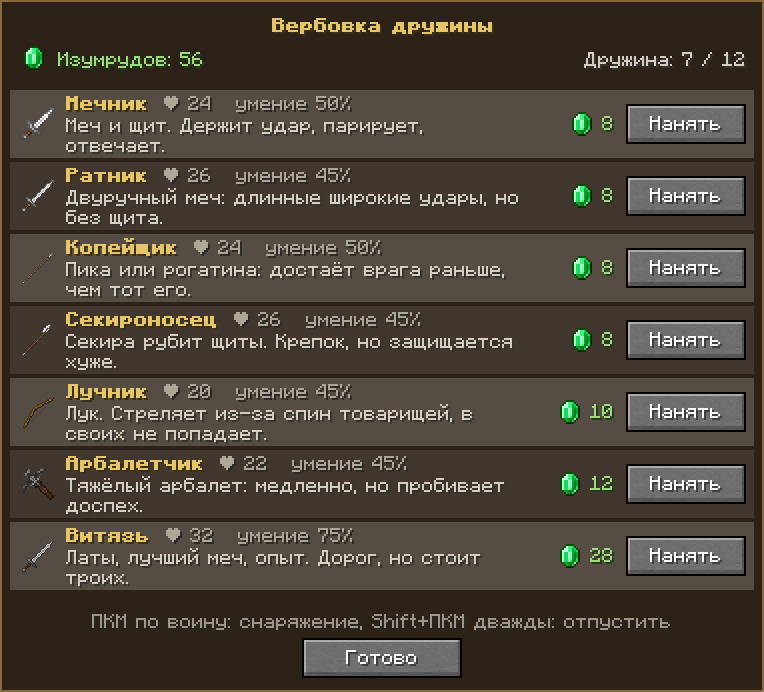
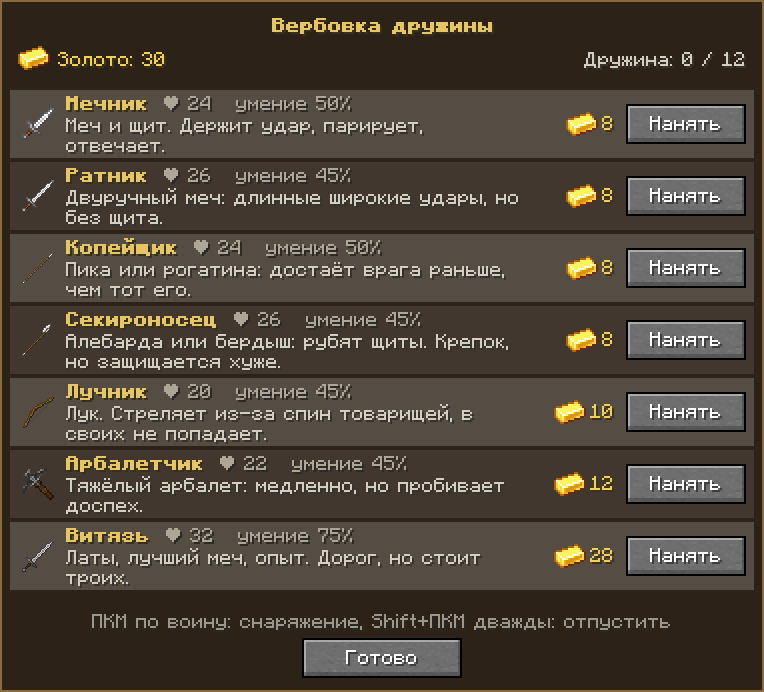
Druzhina 1.2.0: soldiers are hired for gold
- the muster table takes gold ingots instead of emeralds (Minecraft's or
  any mod's that count as gold ingots), at the same prices: 8 for a
  swordsman, a warrior, a spearman or an axeman, 10 for an archer, 12 for
  a crossbowman, 28 for a knight
- the muster screen shows the gold in the purse and the prices in gold
- bandits carry gold ingots instead of emeralds
- README and its screenshot of the muster screen; Prestol builds against
  Druzhina 1.2.0 (its own hiring of mercenaries was already for gold)

Claude-Session: https://claude.ai/code/session_01PiMY2ipzwAcxeXnAaZYcyK

diff --git a/druzhina/src/main/java/io/github/nicksementsov/druzhina/client/MusterScreen.java b/druzhina/src/main/java/io/github/nicksementsov/druzhina/client/MusterScreen.java
@@ -26,6 +26,8 @@ public class MusterScreen extends Screen {
     private static final int BG = 0xE0201812;
     private static final int FRAME = 0xFF8B6B3E;
     private static final int GOLD = 0xFFE8C766;
+    /** The colour of the purse and of prices the player can pay. */
+    private static final int COIN = 0xFFF5D255;
 
     private final BlockPos table;
     private final Role[] roles = Role.forHire();
@@ -78,11 +80,11 @@ public class MusterScreen extends Screen {
         if (player == null) {
             return;
         }
-        int emeralds = Army.emeralds(player);
+        int gold = Army.gold(player);
         boolean free = player.getAbilities().instabuild;
         boolean full = this.army(player) >= DruzhinaConfig.MAX_SOLDIERS.get();
         for (int i = 0; i < this.buttons.size(); i++) {
-            this.buttons.get(i).active = !full && (free || emeralds >= Army.price(this.roles[i]));
+            this.buttons.get(i).active = !full && (free || gold >= Army.price(this.roles[i]));
         }
     }
 
@@ -111,11 +113,11 @@ public class MusterScreen extends Screen {
         g.drawCenteredString(this.font, this.title.copy().withStyle(ChatFormatting.BOLD), x + w / 2, y + 8, GOLD);
 
         Player player = Minecraft.getInstance().player;
-        int emeralds = player == null ? 0 : Army.emeralds(player);
+        int gold = player == null ? 0 : Army.gold(player);
         boolean free = player != null && player.getAbilities().instabuild;
         if (player != null) {
-            g.renderItem(new ItemStack(Items.EMERALD), x + 8, y + 20);
-            g.drawString(this.font, Component.translatable("druzhina.gui.purse", emeralds), x + 28, y + 25, 0xFF9FE07A);
+            g.renderItem(new ItemStack(Items.GOLD_INGOT), x + 8, y + 20);
+            g.drawString(this.font, Component.translatable("druzhina.gui.purse", gold), x + 28, y + 25, COIN);
             Component army = Component.translatable("druzhina.gui.army", this.army(player), DruzhinaConfig.MAX_SOLDIERS.get());
             g.drawString(this.font, army, x + w - 8 - this.font.width(army), y + 25, 0xFFD8D0C0);
         }
@@ -134,12 +136,12 @@ public class MusterScreen extends Screen {
             for (int l = 0; l < Math.min(2, lines.size()); l++) {
                 g.drawString(this.font, lines.get(l), x + 32, ry + 14 + l * 10, 0xFFD8D0C0);
             }
-            // the price, with an emerald, red when the purse is too thin
+            // the price in gold ingots, red when the purse is too thin
             int price = Army.price(role);
             String text = String.valueOf(price);
             int px = x + w - 74 - this.font.width(text);
-            g.renderItem(new ItemStack(Items.EMERALD), px - 18, ry + 9);
-            g.drawString(this.font, text, px, ry + 13, free || emeralds >= price ? 0xFF9FE07A : 0xFFE06060);
+            g.renderItem(new ItemStack(Items.GOLD_INGOT), px - 18, ry + 9);
+            g.drawString(this.font, text, px, ry + 13, free || gold >= price ? COIN : 0xFFE06060);
         }
 
         g.drawCenteredString(this.font, Component.translatable("druzhina.gui.baton_hint"), x + w / 2, y + this.panelHeight - 38, 0xFFA09888);

diff --git a/druzhina/src/main/java/io/github/nicksementsov/druzhina/server/Army.java b/druzhina/src/main/java/io/github/nicksementsov/druzhina/server/Army.java
@@ -29,6 +29,7 @@ import net.minecraft.world.entity.player.Player;
 import net.minecraft.world.item.ItemStack;
 import net.minecraft.world.item.Items;
 import net.minecraft.world.level.Level;
+import net.minecraftforge.common.Tags;
 import net.minecraft.world.phys.Vec3;
 
 /** A player's soldiers: hiring them and giving them orders. */
@@ -83,11 +84,11 @@ public final class Army {
         }
         int price = price(role);
         if (!player.getAbilities().instabuild) {
-            if (emeralds(player) < price) {
-                player.displayClientMessage(Component.translatable("druzhina.msg.no_emeralds", price).withStyle(ChatFormatting.RED), false);
+            if (gold(player) < price) {
+                player.displayClientMessage(Component.translatable("druzhina.msg.no_gold", price).withStyle(ChatFormatting.RED), false);
                 return false;
             }
-            takeEmeralds(player, price);
+            takeGold(player, price);
         }
 
         Soldier s = DruzhinaRegistry.SOLDIER.get().create(level);
@@ -121,22 +122,28 @@ public final class Army {
         return player.getInventory().contains(new ItemStack(DruzhinaRegistry.BATON.get()));
     }
 
-    public static int emeralds(Player player) {
+    /** Soldiers are paid in gold ingots (Minecraft's, or any mod's that count as gold ingots). */
+    public static boolean isGold(ItemStack stack) {
+        return stack.is(Tags.Items.INGOTS_GOLD);
+    }
+
+    /** How many gold ingots the player carries. */
+    public static int gold(Player player) {
         int n = 0;
         for (ItemStack stack : player.getInventory().items) {
-            if (stack.is(Items.EMERALD)) {
+            if (isGold(stack)) {
                 n += stack.getCount();
             }
         }
         return n;
     }
 
-    private static void takeEmeralds(Player player, int amount) {
+    private static void takeGold(Player player, int amount) {
         for (ItemStack stack : player.getInventory().items) {
             if (amount <= 0) {
                 break;
             }
-            if (stack.is(Items.EMERALD)) {
+            if (isGold(stack)) {
                 int take = Math.min(amount, stack.getCount());
                 stack.shrink(take);
                 amount -= take;

diff --git a/druzhina/src/main/java/io/github/nicksementsov/druzhina/entity/Soldier.java b/druzhina/src/main/java/io/github/nicksementsov/druzhina/entity/Soldier.java
@@ -539,10 +539,10 @@ public class Soldier extends PathfinderMob implements CombatFighter, OwnableEnti
     protected void dropCustomDeathLoot(DamageSource source, int looting, boolean hit) {
         super.dropCustomDeathLoot(source, looting, hit);
         if (this.isBandit()) {
-            // the band's purse
-            int emeralds = this.role() == Role.CHIEFTAIN ? 5 + this.random.nextInt(5 + looting) : 1 + this.random.nextInt(2 + looting);
-            if (emeralds > 0) {
-                this.spawnAtLocation(new ItemStack(Items.EMERALD, emeralds));
+            // the band's purse: gold to hire men with
+            int gold = this.role() == Role.CHIEFTAIN ? 5 + this.random.nextInt(5 + looting) : 1 + this.random.nextInt(2 + looting);
+            if (gold > 0) {
+                this.spawnAtLocation(new ItemStack(Items.GOLD_INGOT, gold));
             }
         }
     }

diff --git a/druzhina/src/main/java/io/github/nicksementsov/druzhina/entity/Role.java b/druzhina/src/main/java/io/github/nicksementsov/druzhina/entity/Role.java
@@ -9,7 +9,7 @@ import net.minecraft.world.item.ItemStack;
  * player; the bandits roam the land on their own.
  */
 public enum Role {
-    //            emeralds  health  skill   ranged  bandit  grade
+    //            gold      health  skill   ranged  bandit  grade
     SWORDSMAN(8, 24, 0.5f, false, false, Kits.REGULAR),
     SPEARMAN(8, 24, 0.5f, false, false, Kits.REGULAR),
     AXEMAN(8, 26, 0.45f, false, false, Kits.REGULAR),
@@ -22,7 +22,7 @@ public enum Role {
     BANDIT_ARCHER(0, 16, 0.25f, true, true, Kits.LEVY),
     CHIEFTAIN(0, 30, 0.5f, false, true, Kits.LEVY);
 
-    /** Price of hiring one, in emeralds. */
+    /** Price of hiring one, in gold ingots. */
     public final int cost;
     public final float health;
     /** 0 to 1: how quickly and how often he guards, parries, chains and feints. */

diff --git a/druzhina/src/main/java/io/github/nicksementsov/druzhina/block/MusterTableBlock.java b/druzhina/src/main/java/io/github/nicksementsov/druzhina/block/MusterTableBlock.java
@@ -67,7 +67,7 @@ public class MusterTableBlock extends HorizontalDirectionalBlock {
         if (level.isClientSide) {
             DistExecutor.unsafeRunWhenOn(Dist.CLIENT, () -> () -> ClientHooks.openMuster(pos));
         } else if (player instanceof ServerPlayer serverPlayer) {
-            // Told at once, not only when the hire button is pressed, if something more than emeralds is wanted.
+            // Told at once, not only when the hire button is pressed, if something more than gold is wanted.
             Component refusal = Hiring.refusal(serverPlayer, pos);
             if (refusal != null) {
                 serverPlayer.displayClientMessage(refusal, true);

diff --git a/druzhina/src/main/java/io/github/nicksementsov/druzhina/api/Hiring.java b/druzhina/src/main/java/io/github/nicksementsov/druzhina/api/Hiring.java
@@ -8,7 +8,7 @@ import net.minecraft.network.chat.Component;
 import net.minecraft.server.level.ServerPlayer;
 
 /**
- * Who may hire soldiers at a muster table. By itself Druzhina lets anyone with the emeralds hire; a mod with towns
+ * Who may hire soldiers at a muster table. By itself Druzhina lets anyone with the gold hire; a mod with towns
  * (Prestol) may ask for more, such as a barracks to keep the men in.
  */
 public final class Hiring {

diff --git a/druzhina/README.md b/druzhina/README.md
@@ -19,7 +19,7 @@
 |--------------------|
 | ![Вид сверху: девять выбранных воинов обведены зелёным, над ними полоски здоровья; жёлтые кольца на земле показывают, где встанет новая линия](docs/screenshots/command.png) |
 
-![Окно вербовочного стола: семь ролей со здоровьем, умением, описанием, ценой в изумрудах и кнопкой «Нанять»](docs/screenshots/muster.png)
+![Окно вербовочного стола: семь ролей со здоровьем, умением, описанием, ценой в золотых слитках и кнопкой «Нанять»](docs/screenshots/muster.png)
 
 - **Minecraft** 1.20.1, **Forge** 47.x
 - **ID мода:** `druzhina`
@@ -39,8 +39,8 @@
 
 1. **Соберите вербовочный стол** (верхний ряд: бумага, изумруд, бумага; средний: бревно, железный меч, бревно; нижний: бревно, пусто, бревно)
    и поставьте его.
-2. **Нажмите по столу ПКМ.** Откроется окно найма: кто служит, сколько стоит (в изумрудах), сколько у вас
-   изумрудов и воинов. С первым нанятым воином вы получите **жезл воеводы**.
+2. **Нажмите по столу ПКМ.** Откроется окно найма: кто служит, сколько стоит (в золотых слитках), сколько у вас
+   золота и воинов. Платят слитками из сумки (подходят и золотые слитки других модов). С первым нанятым воином вы получите **жезл воеводы**.
 3. **Отдавайте приказы жезлом** (действует на ваших воинов в 64 блоках):
 
    | Действие | Приказ |
@@ -72,14 +72,14 @@
    Shift + ПКМ пустой рукой два раза подряд — отпустить воина домой.
 6. **Отбивайте шайки.** Время от времени на вас выходит шайка разбойников (на одинокого путника — двое, на войско — с атаманом) — о ней трубят дозорные,
    в чате видно, сколько их и с какой стороны идут. Чем больше ваше войско, тем больше шайка.
-   С разбойников падают изумруды — на них можно нанять новых воинов.
+   С разбойников падают золотые слитки — на них можно нанять новых воинов.
 
 ## Воины
 
 Всё снаряжение — из Epic Knights и аддонов, каждый раз немного разное: какой меч, какой шлем, какая кольчуга —
 выбирается из подходящих.
 
-| Роль | Цена | Здоровье | Умение | Снаряжение |
+| Роль | Цена, золотых слитков | Здоровье | Умение | Снаряжение |
 |------|------|----------|--------|-----------|
 | Мечник | 8 | 24 | 50% | одноручный меч (армирующий, катцбальгер, русский) и щит, кольчуга, шлем |
 | Ратник | 8 | 26 | 45% | двуручный меч (бастард, клеймор, цвайхендер, длинный меч), кольчуга |
@@ -139,7 +139,7 @@
 
 | Команда | Что делает |
 |---------|-----------|
-| `./gradlew :druzhina:build` | Собирает мод в `druzhina/build/libs/druzhina-1.1.0.jar` |
+| `./gradlew :druzhina:build` | Собирает мод в `druzhina/build/libs/druzhina-1.2.0.jar` |
 | `./gradlew :druzhina:runClient -PepicKnights` | Запускает Minecraft с «Дружиной», «Рыцарским боем» и Epic Knights с аддонами (скачиваются с Modrinth; Epic Knights обязателен) |
 
 ## Устройство проекта

diff --git a/README.md b/README.md
@@ -23,7 +23,7 @@ Gradle скачивает и декомпилирует Minecraft.
 | `./gradlew build` | Собирает шахматы, «Рыцарский бой» и «Дружину» и запускает тесты |
 | `./gradlew :chess:build` | Только шахматы → `chess/build/libs/chessmod-1.2.0.jar` |
 | `./gradlew :knightcombat:build` | «Рыцарский бой» → `knightcombat/build/libs/knightcombat-2.10.0.jar` |
-| `./gradlew :druzhina:build` | «Дружина» → `druzhina/build/libs/druzhina-1.1.0.jar` |
+| `./gradlew :druzhina:build` | «Дружина» → `druzhina/build/libs/druzhina-1.2.0.jar` |
 | `cd prestol && ./gradlew build` | «Престол» → `prestol/build/libs/prestol-2.1.0.jar` (сначала соберите «Дружину» и «Рыцарский бой») |
 | `./gradlew :chess:runClient` | Minecraft с модом шахмат (`:knightcombat:runClient` — с боевым модом, `:druzhina:runClient` — с «Дружиной» и «Рыцарским боем») |
 | `./gradlew :chess:runServer` | Выделенный сервер с модом (`:knightcombat:runServer`) |
